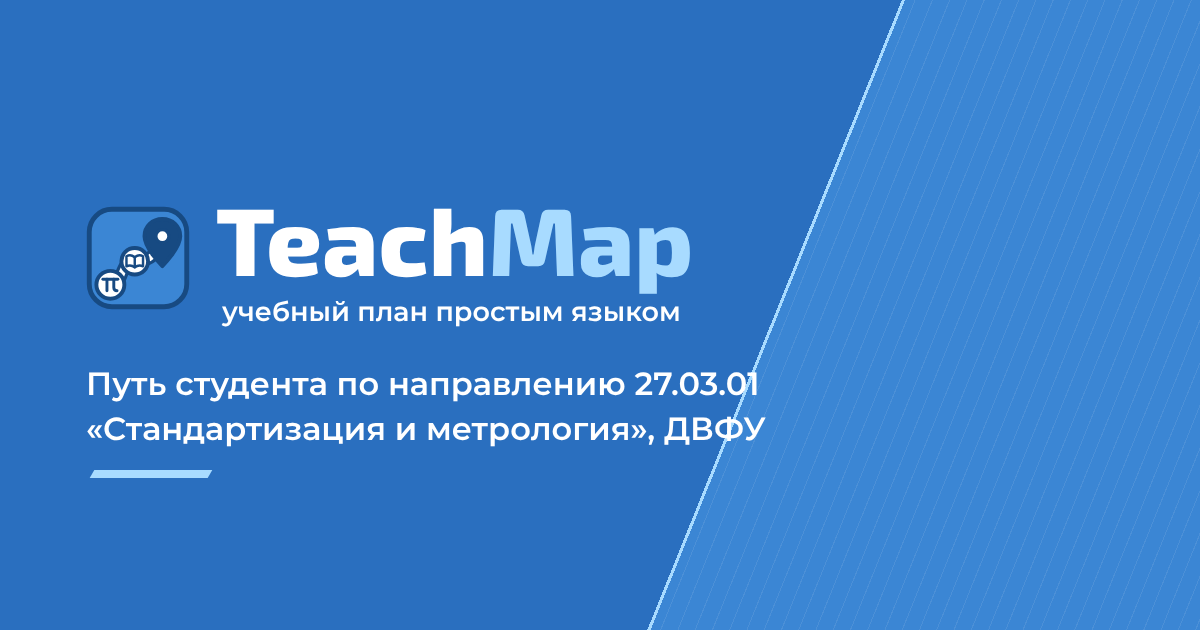
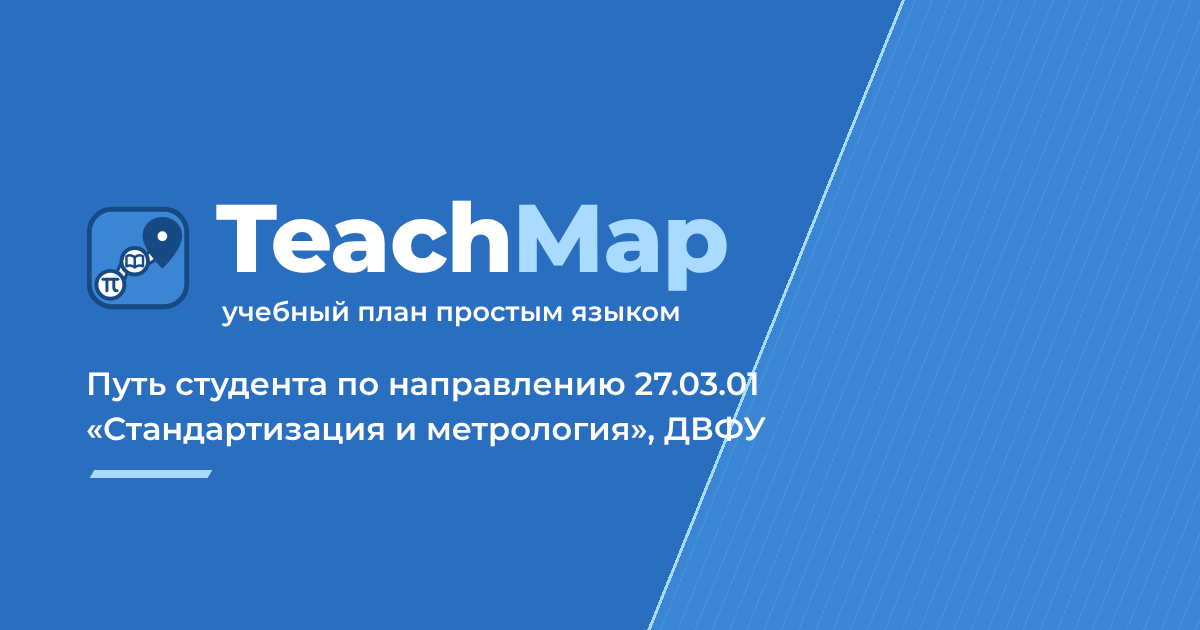
Заголовки снова набраны Oswald, заголовок обложки — под углом
По просьбе возвращено оформление заголовков до этапа 1: шрифт Oswald заглавными
с прежним трекингом (h1–h3, метки, меню, название в шапке) и наклон заголовка
обложки −1,5° (на телефоне −1°; в режиме «Крупно» без наклона).
Предзагрузка переключена с Exo 2 на Oswald, поэтому сдвига макета при загрузке
шрифта нет (CLS 0). Файлы Exo 2 удалены; надпись в og.png снова Montserrat.

Claude-Session: https://claude.ai/code/session_0151NTbmEDGHuB1PcSNZ5fsY

Changed region(s): [[0.185, 0.3016, 0.6167, 0.4825]]

diff --git a/assets/style.css b/assets/style.css
@@ -395,8 +395,8 @@ html.access .hero3d{display:none}
    (исключение — белый текст на глубоком синем и иллюстрации заданий, у которых свой постоянный фон).
    Контраст токенов проверен по WCAG 2.1: текст от 4,5:1, границы полей и значки от 3:1.
    ===================================================================== */
-@font-face{font-family:"Exo 2";src:url("fonts/exo2-cyrillic.woff2") format("woff2");font-weight:100 900;font-display:swap;unicode-range:U+0301,U+0400-045F,U+0490-0491,U+04B0-04B1,U+2116}
-@font-face{font-family:"Exo 2";src:url("fonts/exo2-latin.woff2") format("woff2");font-weight:100 900;font-display:swap;unicode-range:U+0000-00FF,U+0131,U+0152-0153,U+02BB-02BC,U+02C6,U+02DA,U+02DC,U+0304,U+0308,U+0329,U+2000-206F,U+20AC,U+2122,U+2191,U+2193,U+2212,U+2215,U+FEFF,U+FFFD}
+@font-face{font-family:"Oswald";src:url("fonts/oswald-cyrillic.woff2") format("woff2");font-weight:200 700;font-display:swap;unicode-range:U+0301,U+0400-045F,U+0490-0491,U+04B0-04B1,U+2116}
+@font-face{font-family:"Oswald";src:url("fonts/oswald-latin.woff2") format("woff2");font-weight:200 700;font-display:swap;unicode-range:U+0000-00FF,U+0131,U+0152-0153,U+02BB-02BC,U+02C6,U+02DA,U+02DC,U+0304,U+0308,U+0329,U+2000-206F,U+20AC,U+2122,U+2191,U+2193,U+2212,U+2215,U+FEFF,U+FFFD}
 :root{
  /* поверхности и текст: светлые, с лёгким небесным оттенком */
  --bg:#F4F9FE;--card:#FFFFFF;--ice:#E3F1FC;--ice-2:#F0F7FE;--ink:#1F2B3D;--mut:#52657F;
@@ -426,7 +426,7 @@ html.access .hero3d{display:none}
  --sh-pop:0 24px 60px rgba(20,50,90,.24);
  --para:polygon(8px 0,100% 0,calc(100% - 8px) 100%,0 100%);--slash:112deg;
  --lines:rgba(255,255,255,.08);
- --hd:"Exo 2","Montserrat",system-ui,-apple-system,"Segoe UI",Arial,sans-serif;
+ --hd:"Oswald","Arial Narrow","Roboto Condensed","Helvetica Neue",Impact,sans-serif;
  /* прежние имена: на них ещё ссылаются слой движения и ранние правила; убрать вместе с переименованием p5-* */
  --red:var(--acc);--bd:var(--line);--tint:var(--ice);--on:#FFFFFF;--pri-bg:var(--deep);--blue:var(--focus);--lime:var(--ok-s);--limed:var(--ok);--slate:var(--mut);--amber:var(--warn);--sh-r:var(--sh);
  --glass:var(--card);--glass-2:var(--card);--glass-brd:var(--line);--glass-sh:var(--sh);--blur:none;--grad:var(--btn)}
@@ -443,11 +443,11 @@ html.access{--bg:#FFFFFF;--card:#FFFFFF;--ice-2:#F2F7FD;--ink:#000;--mut:#1F2A3A
 @media(prefers-color-scheme:dark){html.access{--bg:#000;--card:#0A0F1C;--ice:#182B4B;--ice-2:#0F1C38;--ink:#fff;--mut:#E6EEF9;--line:#B3C4DC;--field:#E6EEF9;--pri:#D3E8FC;--link:#D3E8FC;--focus:#D3E8FC;--lines:transparent}}
 *{-webkit-backdrop-filter:none!important;backdrop-filter:none!important}
 body{background:var(--bg);color:var(--ink)}
-/* типографика: заголовки и короткие метки — Exo 2, длинный текст — Montserrat */
+/* типографика: заголовки и короткие метки — Oswald заглавными, длинный текст — Montserrat */
 h1,h2,h3,.tile b,.facts b,.meter b,.node b,.stage .num,.jbar,.menu a,.acc,.btn,.btn-s,.btn-o,.xnb,.pill,.gf,.kchip,.badge,.hsearch button,.kicker,.xk,.stage .when{font-family:var(--hd)}
-h1{font-weight:800;letter-spacing:-.005em;line-height:1.1}
-h2{font-weight:700;letter-spacing:0}
-h3{font-weight:700;letter-spacing:0}
+h1{text-transform:uppercase;font-weight:700;letter-spacing:.01em;line-height:1.04}
+h2{text-transform:uppercase;font-weight:600;letter-spacing:.02em}
+h3{text-transform:uppercase;font-weight:600;letter-spacing:.02em}
 .kicker,.xk,.stage .when{text-transform:uppercase;letter-spacing:.08em}
 main li::marker{color:var(--acc)}
 main a:not([class]){color:var(--link);text-decoration-thickness:1px;text-underline-offset:3px}
@@ -458,10 +458,10 @@ main a:not([class]){color:var(--link);text-decoration-thickness:1px;text-underli
 .top{background:var(--card);color:var(--ink);border:1px solid var(--line);border-radius:var(--r);box-shadow:var(--sh)}
 .band .top{background:var(--card);border-color:var(--line);box-shadow:var(--sh);margin:12px 14px 0;width:auto}
 .brand,.band .top .brand{color:var(--ink)}
-.bw b,.band .bw b{color:var(--pri);font-family:var(--hd);font-weight:800;letter-spacing:.01em;font-size:24px}
+.bw b,.band .bw b{color:var(--pri);font-family:var(--hd);text-transform:uppercase;letter-spacing:.03em;font-size:24px}
 .bw b em,.band .bw b em{color:var(--acc)}.bw small,.band .bw small{color:var(--mut)}
 .tmlogo{width:44px;height:44px}
-.menu a,.acc,.band .menu a{color:var(--mut);background:transparent;border:0;border-radius:var(--r-s);clip-path:none;text-transform:uppercase;letter-spacing:.02em;font-weight:600;font-size:13.5px;padding-left:10px;padding-right:10px;transition:background .12s,color .12s}
+.menu a,.acc,.band .menu a{color:var(--mut);background:transparent;border:0;border-radius:var(--r-s);clip-path:none;text-transform:uppercase;letter-spacing:.05em;font-weight:600;font-size:15px;transition:background .12s,color .12s}
 @media(min-width:701px){.acc{display:inline-flex;align-items:center;gap:6px}}
 .menu a:hover,.band .menu a:hover{background:var(--ice);color:var(--pri)}
 .menu a[aria-current],.band .menu a[aria-current]{background:var(--btn);color:#fff;box-shadow:none;border-radius:0;clip-path:var(--para)}
@@ -482,7 +482,7 @@ main a:not([class]){color:var(--link);text-decoration-thickness:1px;text-underli
 .band::after{display:none}
 .heroblock>.wrap,.band>*{position:relative;z-index:2}
 .hero3d{z-index:1}
-.hero h1,.heroblock .hero h1{background:none;-webkit-background-clip:border-box;background-clip:border-box;color:#fff;-webkit-text-fill-color:#fff;text-shadow:none;transform:none;animation:p5in .35s steps(10,end) both}
+.hero h1,.heroblock .hero h1{background:none;-webkit-background-clip:border-box;background-clip:border-box;color:#fff;-webkit-text-fill-color:#fff;text-shadow:none;transform:rotate(-1.5deg);transform-origin:left center;animation:p5in .35s steps(10,end) both}
 .heroblock .lead,.heroblock .hero p{color:#FFFFFF}.heroblock .muted{color:#F2F8FE}
 .line{background:var(--acc);height:4px;transform:skewX(-30deg)}
 .heroblock .line{background:var(--glow)}
@@ -620,10 +620,11 @@ footer a{color:#fff;text-decoration-color:var(--glow);text-decoration-thickness:
  .menu .acc,.band .menu .acc{background:transparent;color:#FFFFFF}
  .menu .acc[aria-pressed=true]{background:#FFFFFF;color:#22609F}
  .hlpill{bottom:100px}
+ .hero h1{transform:rotate(-1deg)}
 }
 /* «Крупно» и меньше движения: без наклонов, линий и анимаций */
 html.access .heroblock::after,html.access .band::before{display:none}
-html.access .hero3d .cube,html.access .line,html.access .menu a[aria-current],html.access .btn,html.access .btn-s,html.access .hsearch button{transform:none;clip-path:none}
+html.access .hero h1,html.access .hero3d .cube,html.access .line,html.access .menu a[aria-current],html.access .btn,html.access .btn-s,html.access .hsearch button{transform:none;clip-path:none}
 @media(prefers-reduced-motion:reduce){
  .menu a,.acc,.btn,.btn-s,.btn-o,.card,.dc,.tile,.pill,.gf,.kchip,.tkb,.fbb,.fo span,.xnb,.xclose,.hsearch button{transition:none!important}
  .card:hover,.dc:hover,.btn:hover,.btn-s:hover,.pill:hover,.gf:hover,.kchip:hover,.tkb:hover,.fbb:hover,.xnb:hover{transform:none}

diff --git a/build.py b/build.py
@@ -121,7 +121,7 @@ def page(title, desc, body, depth=0, live=False, path=False, form=False):
     return f'''<!doctype html><html lang="ru"><head><meta charset="utf-8"><meta name="viewport" content="width=device-width,initial-scale=1">
 <title>{E(title)}</title><meta name="description" content="{E(desc)}"><meta property="og:title" content="{E(title)}"><meta property="og:description" content="{E(desc)}"><meta name="theme-color" content="#2A6FBF">{lm}{fm}
 <link rel="icon" type="image/svg+xml" href="{b}assets/logo-icon.svg"><link rel="apple-touch-icon" href="{b}assets/apple-touch-icon.png"><meta property="og:site_name" content="TeachMap"><meta property="og:image" content="{SITE_URL}assets/og.png"><meta property="og:type" content="website">
-<link rel="preload" href="{b}assets/fonts/montserrat-core.woff2" as="font" type="font/woff2" crossorigin><link rel="preload" href="{b}assets/fonts/exo2-cyrillic.woff2" as="font" type="font/woff2" crossorigin><link rel="preload" href="{b}assets/fonts/exo2-latin.woff2" as="font" type="font/woff2" crossorigin><link rel="stylesheet" href="{b}assets/style.css?v={ASSET_V}"><script>try{{var n=navigator,c=n.connection||{{}};if(c.saveData||n.deviceMemory&&n.deviceMemory<=2||n.hardwareConcurrency&&n.hardwareConcurrency<=2||/^(slow-2g|2g)$/.test(c.effectiveType||""))document.documentElement.classList.add("p5-lite")}}catch(x){{}}try{{if(!matchMedia("(prefers-reduced-motion: reduce)").matches)document.documentElement.classList.add("p5-pre")}}catch(x){{}}try{{if(sessionStorage.getItem("p5nav")&&!matchMedia("(prefers-reduced-motion: reduce)").matches)document.documentElement.classList.add("p5-navwait")}}catch(x){{}}addEventListener("pagereveal",function(e){{var d;try{{d=sessionStorage.getItem("p5dir");sessionStorage.removeItem("p5dir")}}catch(x){{}}var a=window.navigation&&navigation.activation;if(a&&a.navigationType==="traverse"&&a.from&&a.entry)d=a.entry.index<a.from.index?"back":"fwd";if(e.viewTransition&&document.documentElement.classList.contains("p5-lite")){{try{{e.viewTransition.skipTransition()}}catch(x){{}}return}}if(d&&e.viewTransition&&e.viewTransition.types)try{{e.viewTransition.types.add(d)}}catch(x){{}}}})</script></head><body>
+<link rel="preload" href="{b}assets/fonts/montserrat-core.woff2" as="font" type="font/woff2" crossorigin><link rel="preload" href="{b}assets/fonts/oswald-cyrillic.woff2" as="font" type="font/woff2" crossorigin><link rel="preload" href="{b}assets/fonts/oswald-latin.woff2" as="font" type="font/woff2" crossorigin><link rel="stylesheet" href="{b}assets/style.css?v={ASSET_V}"><script>try{{var n=navigator,c=n.connection||{{}};if(c.saveData||n.deviceMemory&&n.deviceMemory<=2||n.hardwareConcurrency&&n.hardwareConcurrency<=2||/^(slow-2g|2g)$/.test(c.effectiveType||""))document.documentElement.classList.add("p5-lite")}}catch(x){{}}try{{if(!matchMedia("(prefers-reduced-motion: reduce)").matches)document.documentElement.classList.add("p5-pre")}}catch(x){{}}try{{if(sessionStorage.getItem("p5nav")&&!matchMedia("(prefers-reduced-motion: reduce)").matches)document.documentElement.classList.add("p5-navwait")}}catch(x){{}}addEventListener("pagereveal",function(e){{var d;try{{d=sessionStorage.getItem("p5dir");sessionStorage.removeItem("p5dir")}}catch(x){{}}var a=window.navigation&&navigation.activation;if(a&&a.navigationType==="traverse"&&a.from&&a.entry)d=a.entry.index<a.from.index?"back":"fwd";if(e.viewTransition&&document.documentElement.classList.contains("p5-lite")){{try{{e.viewTransition.skipTransition()}}catch(x){{}}return}}if(d&&e.viewTransition&&e.viewTransition.types)try{{e.viewTransition.types.add(d)}}catch(x){{}}}})</script></head><body>
 <a class="skip" href="#main">К содержимому</a>{body.replace('<div class="heroblock">', '<div class="heroblock">' + HERO3D)}{footer_html(b)}<script src="{b}assets/app.js?v={ASSET_V}" defer></script>{lj}<script src="{b}assets/motion.js?v={ASSET_V}" defer></script></body></html>'''
 def card_html(it, c):
     st = c["status"] if c["status"] in STATUS else "готовится"; g = gi(it)
